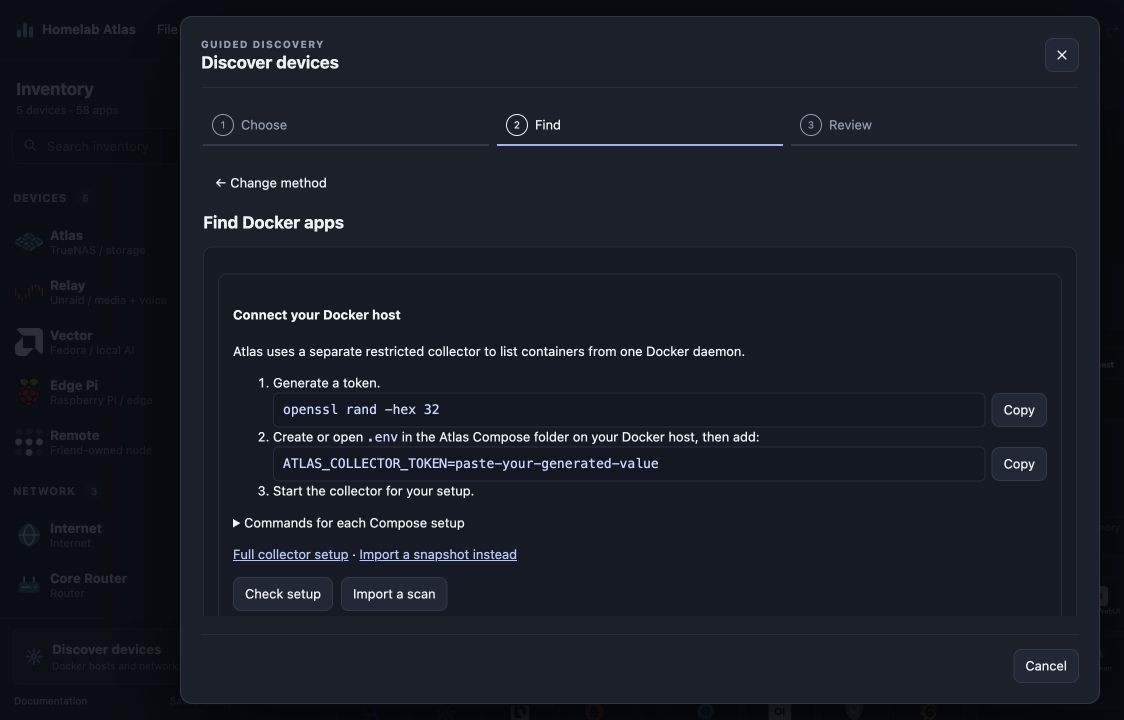
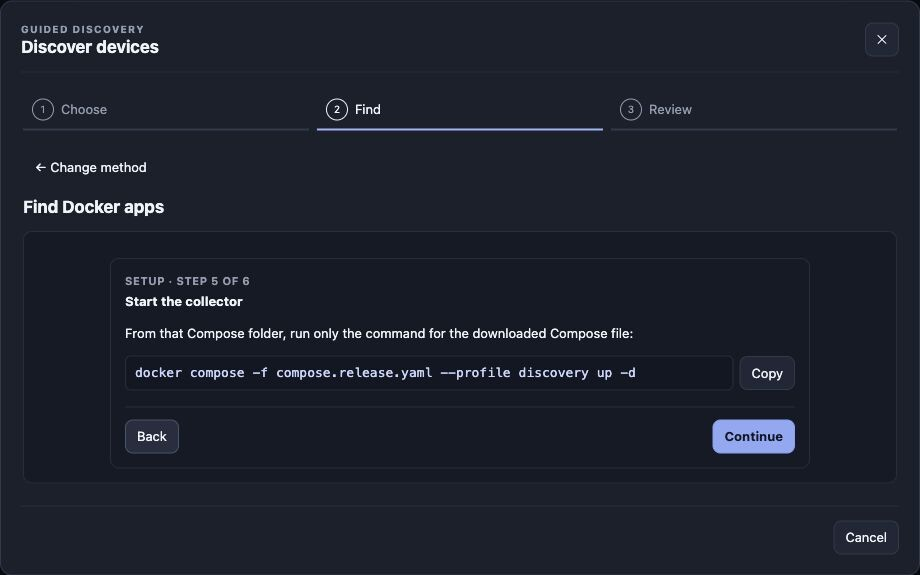
Document guided discovery and prepare v0.12.0

diff --git a/docs/.vitepress/theme/guide-figures.ts b/docs/.vitepress/theme/guide-figures.ts
@@ -58,71 +58,73 @@ export const guideFigures = {
   },
   'discovery-choose': {
     title: 'Choose a discovery method',
-    description: 'The first discovery step with readiness checks and Docker, network, and import methods highlighted.',
+    description: 'The discovery chooser with its three explicit methods and review boundary highlighted.',
     image: 'discovery-choose.jpg',
-    imageWidth: 1124,
-    imageHeight: 720,
-    crop: { x: 180, y: 132.375, width: 920, height: 455.2421875 },
+    imageWidth: 920,
+    imageHeight: 456,
+    crop: { x: 0, y: 0, width: 920, height: 456 },
     ...dialogStyle,
     marks: [
-      { rect: { x: 203, y: 222.125, width: 874, height: 40 }, circle: [156, 242], target: [203, 242], caption: 'Choose, Find, and Review keep setup and results separate. Opening discovery only checks readiness.' },
-      { rect: { x: 203, y: 351.6171875, width: 874, height: 144 }, circle: [1124, 423.5], target: [1077, 423.5], caption: 'Choose Docker apps, Network devices, or a saved scan to continue.' },
+      { rect: { x: 23, y: 89.75, width: 874, height: 40 }, circle: [-24, 110], target: [23, 110], caption: 'Choose, Find, and Review separate setup, scanning, and the required unchecked review.' },
+      { rect: { x: 23, y: 219.2421875, width: 284.6640625, height: 144 }, circle: [-24, 291], target: [23, 291], caption: 'Docker apps lists containers on a configured server or opens the guided setup.' },
+      { rect: { x: 317.6640625, y: 219.2421875, width: 284.6640625, height: 144 }, circle: [460, 480], target: [460, 363.2421875], caption: 'Network devices / Nmap finds reachable devices and open services.' },
+      { rect: { x: 612.328125, y: 219.2421875, width: 284.6640625, height: 144 }, circle: [944, 291], target: [897, 291], caption: 'Import saved scan reviews Docker JSON or Nmap XML without running a scan.' },
     ],
   },
   'network-scan': {
     title: 'Set up a live network scan',
-    description: 'The network Find step with target, optional advanced settings, and Find devices highlighted.',
+    description: 'The ready Nmap flow with device guidance, collapsed optional controls, and explicit scan action highlighted.',
     image: 'network-scan.jpg',
-    imageWidth: 1124,
-    imageHeight: 720,
-    crop: { x: 180, y: 52.0859375, width: 920, height: 615.8203125 },
+    imageWidth: 920,
+    imageHeight: 688,
+    crop: { x: 0, y: 0, width: 920, height: 688 },
     ...dialogStyle,
     marks: [
-      { rect: { x: 218, y: 328.4296875, width: 844, height: 31.9453125 }, circle: [156, 344.5], target: [218, 344.5], caption: 'Enter a permitted target such as the documentation-only address 192.0.2.10.' },
-      { rect: { x: 218, y: 434.0625, width: 844, height: 40.84375 }, circle: [1124, 454.5], target: [1062, 454.5], caption: 'Open Advanced settings only when you need different ports, service identification, or a network name.' },
-      { rect: { x: 218, y: 486.90625, width: 104.78125, height: 34 }, circle: [156, 504], target: [218, 504], caption: 'Find devices starts the bounded scan. No scan was run for this documentation capture.' },
+      { rect: { x: 38, y: 245.3984375, width: 844, height: 110.578125 }, circle: [-24, 301], target: [38, 301], caption: 'Enter one device IP from your router. The note confirms the scan runs from the Atlas server, not the browser.' },
+      { rect: { x: 38, y: 367.9765625, width: 844, height: 40.84375 }, circle: [944, 388], target: [882, 388], caption: 'Open the CIDR or advanced controls only when needed; both stay collapsed by default.' },
+      { rect: { x: 38, y: 506.5078125, width: 104.78125, height: 34 }, circle: [-24, 523.5], target: [38, 523.5], caption: 'Find devices explicitly starts the bounded scan and stays disabled until a target is entered.' },
     ],
   },
   'discovery-review': {
     title: 'Review network findings',
-    description: 'A multi-device network review with navigation, destination, and Add to diagram boundary highlighted.',
+    description: 'A multi-device network review with navigation, destination card, and Add selected boundary highlighted.',
     image: 'discovery-review.jpg',
-    imageWidth: 1124,
-    imageHeight: 720,
-    crop: { x: 180, y: 16, width: 920, height: 688 },
+    imageWidth: 920,
+    imageHeight: 688,
+    crop: { x: 0, y: 0, width: 920, height: 688 },
     ...dialogStyle,
     marks: [
-      { rect: { x: 203, y: 277.2421875, width: 874, height: 72.890625 }, circle: [156, 313.5], target: [203, 313.5], caption: 'Move between discovered devices. Pending choices stay with each device while this review remains open.' },
-      { rect: { x: 215, y: 459.4375, width: 420, height: 31.4765625 }, circle: [1124, 475], target: [635, 475], caption: 'Review the destination. It is never an automatic merge.' },
-      { rect: { x: 201, y: 591.15625, width: 878, height: 91.84375 }, circle: [1124, 637], target: [1079, 637], caption: 'All findings are unchecked, so Add to diagram is disabled. Scroll down to choose services first.', accent: true },
+      { rect: { x: 23, y: 261.2421875, width: 874, height: 72.890625 }, circle: [-24, 298], target: [23, 298], caption: 'Move between discovered devices. Pending choices stay with each device while this review remains open.' },
+      { rect: { x: 23, y: 433.3203125, width: 874, height: 129.734375 }, circle: [944, 498], target: [897, 498], caption: 'Choose the destination diagram card; suggestions never merge a result automatically.' },
+      { rect: { x: 717.546875, y: 633, width: 181.453125, height: 34 }, circle: [944, 650], target: [899, 650], caption: 'Scroll to the findings and select rows first. Add selected remains disabled while nothing is checked.', accent: true },
     ],
   },
   'docker-review': {
     title: 'Review Docker findings',
-    description: 'A Docker review with destination, a manually selected finding, and the Add to diagram boundary highlighted.',
+    description: 'A Docker review with destination, an unchecked finding, and the Add selected boundary highlighted.',
     image: 'docker-review.jpg',
-    imageWidth: 1124,
-    imageHeight: 720,
-    crop: { x: 180, y: 16, width: 920, height: 688 },
+    imageWidth: 920,
+    imageHeight: 688,
+    crop: { x: 0, y: 0, width: 920, height: 688 },
     ...dialogStyle,
     marks: [
-      { rect: { x: 215, y: 157.6328125, width: 420, height: 31 }, circle: [156, 173], target: [215, 173], caption: 'Relay is the reviewed destination. You still control where findings go.' },
-      { rect: { x: 203, y: 316.3671875, width: 874, height: 104.78125 }, circle: [1124, 369], target: [1077, 369], caption: 'Homepage is manually selected here. Findings start unchecked, and more rows require scrolling.' },
-      { rect: { x: 201, y: 572.3125, width: 878, height: 110.6875 }, circle: [1124, 627.5], target: [1079, 627.5], caption: 'Confirm the summary, then Add to diagram. Existing placement and one-step Undo are preserved.', accent: true },
+      { rect: { x: 23, y: 143.984375, width: 874, height: 128.7890625 }, circle: [-24, 208.5], target: [23, 208.5], caption: 'Choose the destination diagram card and service group before selecting findings.' },
+      { rect: { x: 23, y: 404.90625, width: 874, height: 104.78125 }, circle: [944, 457.5], target: [897, 457.5], caption: 'Every Docker finding starts unchecked. Select only the apps you want to add or link.' },
+      { rect: { x: 717.546875, y: 633, width: 181.453125, height: 34 }, circle: [944, 650], target: [899, 650], caption: 'Add selected is one undoable change. Existing cards stay put, and overlap protection still applies.', accent: true },
     ],
   },
   'docker-setup': {
-    title: 'Connect a Docker host',
-    description: 'The Docker setup panel with token checklist, command disclosure, and readiness retry highlighted.',
+    title: 'Start the Docker collector',
+    description: 'Step 5 of the released-Compose setup with one matching command and wizard navigation highlighted.',
     image: 'docker-setup.jpg',
-    imageWidth: 1124,
-    imageHeight: 720,
-    crop: { x: 180, y: 16, width: 920, height: 688 },
+    imageWidth: 920,
+    imageHeight: 575,
+    crop: { x: 0, y: 0, width: 920, height: 575 },
     ...dialogStyle,
     marks: [
-      { rect: { x: 233, y: 373.6640625, width: 814, height: 126.71875 }, circle: [156, 437], target: [233, 437], caption: 'Generate the token yourself, save it in .env, then start the collector for your setup.' },
-      { rect: { x: 233, y: 513.3828125, width: 814, height: 18.84375 }, circle: [1124, 523], target: [1047, 523], caption: 'Open Commands for each Compose setup to see the source and released commands. Atlas never runs them.' },
-      { rect: { x: 233, y: 577.0703125, width: 100.0078125, height: 34 }, circle: [156, 594], target: [233, 594], caption: 'Check setup repeats the readiness check. It does not create tokens or enable the collector.' },
+      { rect: { x: 125, y: 272.3984375, width: 670, height: 37.7890625 }, circle: [-24, 291], target: [125, 291], caption: 'The wizard shows one focused instruction at a time and identifies the current step.' },
+      { rect: { x: 125, y: 355.03125, width: 670, height: 34.84375 }, circle: [944, 372.5], target: [795, 372.5], caption: 'Only the released-Compose command is shown for this branch. Atlas never executes it.' },
+      { rect: { x: 125, y: 405.875, width: 670, height: 47 }, circle: [-24, 429.5], target: [125, 429.5], caption: 'Back keeps prior choices; Continue advances to the final setup check.' },
     ],
   },
   'private-export': {

diff --git a/tools/tests/discovery-setup.test.js b/tools/tests/discovery-setup.test.js
@@ -34,6 +34,6 @@ test('Docker setup opens only after a successful empty readiness response', () =
 test('setup commands keep the documented release and restricted snapshot forms', () => {
   assert.match(SETUP_COMMANDS.composeRelease, /compose\.release\.yaml --profile discovery/);
   assert.match(SETUP_COMMANDS.snapshot, /--network none/);
-  assert.match(SETUP_COMMANDS.snapshot, /homelab-atlas:0\.11\.1 collect/);
+  assert.match(SETUP_COMMANDS.snapshot, /homelab-atlas:0\.12\.0 collect/);
   assert.equal(SETUP_COMMANDS.nmapBuild, 'ATLAS_WITH_NMAP=true docker compose up -d --build');
 });

diff --git a/app/public/discovery-setup.js b/app/public/discovery-setup.js
@@ -14,7 +14,7 @@ export const SETUP_COMMANDS = Object.freeze({
   -e ATLAS_HOST_ID=nas \\
   -e 'ATLAS_HOST_NAME=NAS Docker' \\
   -v /var/run/docker.sock:/var/run/docker.sock:ro \\
-  ghcr.io/aiden0rchad/homelab-atlas:0.11.1 collect \\
+  ghcr.io/aiden0rchad/homelab-atlas:0.12.0 collect \\
   > ../nas-docker-snapshot.json`,
 });
 

diff --git a/docs/editor.md b/docs/editor.md
@@ -26,15 +26,15 @@ The duplicate button copies a device and gives the copy new internal IDs without
 
 ## Discover devices
 
-Choose **Discover devices** at the bottom of the inventory, then choose Docker apps, Network devices, or a saved scan. Opening discovery checks readiness but never scans. The Find step runs only after **Find Docker apps** or **Find devices**; importing a snapshot or XML runs no scanner or network probe.
+Choose **Discover devices** at the bottom of the inventory, then choose Docker apps, Network devices / Nmap, or Import saved scan. Opening discovery checks readiness but never scans. Configured Docker servers go straight to the server picker; the one-screen-at-a-time setup appears only when configuration is missing. The Find step runs only after **Find Docker apps** or **Find devices**; importing a snapshot or XML runs no scanner or network probe.
 
 For live Nmap, enter allowed IPv4 targets and choose **Find devices**. **Advanced settings** contains the optional network name, port preset, custom TCP ports, and service identification. Select a device in multi-device results. The scope, host addresses, names, vendor, scan time, and ports not imported appear in Review. Reuse the same network name for later scans.
 
-Choose a destination device and service group. Every finding starts unchecked. Docker and Nmap endpoint rows can add a service or link to one already on the destination device. Nmap host rows add a host card or link the host identity to an existing card. Ping-only hosts therefore work without a fake service. Suggestions never check a row automatically.
+Choose a **Destination diagram card** and service group. Every finding starts unchecked. Docker and Nmap endpoint rows can add a service or link to one already on the destination device. Nmap host rows add a host card or link the host identity to an existing card. Ping-only hosts therefore work without a fake service. Suggestions never check a row automatically.
 
 Linking keeps existing metadata and layout unchanged. Docker additions use the discovered name, logo match, and replica count. Nmap endpoint names include the detected product or service plus protocol and port. New Nmap cards persist bounded canonical IP addresses as hardware facts. Missing findings never delete existing services.
 
-The review summary shows additions, links, new cards/groups, and card-height changes. **Add to diagram** is disabled for an empty or invalid review. Adding the current device creates one undo step, and Nmap results stay open so another device can be reviewed. Canceling, pressing `Escape`, finding, or importing without choosing **Add to diagram** does not change the project. See [Discovery](/discovery) for setup, limits, and security boundaries.
+The review summary shows additions, links, new cards/groups, and card-height changes. **Add selected to diagram** is disabled for an empty or invalid review. Adding the current device creates one undo step, and Nmap results stay open so another device can be reviewed. Canceling, pressing `Escape`, finding, or importing without choosing **Add selected to diagram** does not change the project. See [Discovery](/discovery) for setup, limits, and security boundaries.
 
 ## Add service tiles
 

diff --git a/docs/getting-started.md b/docs/getting-started.md
@@ -16,7 +16,7 @@ Manual diagrams need only Atlas and a browser. Discovery is optional and has sep
 Download the release Compose file, then start the container:
 
 ```sh
-curl -fsSLO https://github.com/aiden0rchad/homelab-atlas/releases/download/v0.11.1/compose.release.yaml
+curl -fsSLO https://github.com/aiden0rchad/homelab-atlas/releases/download/v0.12.0/compose.release.yaml
 docker compose -f compose.release.yaml up -d
 ```
 
@@ -26,14 +26,14 @@ Open `http://localhost:8080`. Verify the server if needed:
 curl http://localhost:8080/healthz
 ```
 
-A healthy response is `ok`. By default, the Compose file pulls `ghcr.io/aiden0rchad/homelab-atlas:0.11.1`. It only listens on the machine running Docker and keeps the container read-only, drops its capabilities, and enables the no-new-privileges setting. Docker discovery stays off unless you enable its profile.
+A healthy response is `ok`. By default, the Compose file pulls `ghcr.io/aiden0rchad/homelab-atlas:0.12.0`. It only listens on the machine running Docker and keeps the container read-only, drops its capabilities, and enables the no-new-privileges setting. Docker discovery stays off unless you enable its profile.
 
 ## Pin and update versions
 
 To pin a version, create `.env` next to `compose.release.yaml`:
 
 ```dotenv
-ATLAS_VERSION=0.11.1
+ATLAS_VERSION=0.12.0
 ```
 
 When you want to update, change `ATLAS_VERSION` in `.env` to a version that has been published. Then pull it and recreate the container without changing the hostname or port:
@@ -43,12 +43,12 @@ docker compose -f compose.release.yaml pull
 docker compose -f compose.release.yaml up -d
 ```
 
-Save an editable JSON project before you update or downgrade. Your project is stored by the browser, not in a container volume. Atlas 0.11 uses schema version 6 and imports schema versions 1 through 5. Existing inventory, discovery bindings, uploaded logos, connections, and manual layouts are preserved. Atlas does not migrate projects backward.
+Save an editable JSON project before you update or downgrade. Your project is stored by the browser, not in a container volume. Atlas 0.12 uses schema version 6 and imports schema versions 1 through 5. Existing inventory, discovery bindings, uploaded logos, connections, and manual layouts are preserved. Atlas does not migrate projects backward.
 
 The image tags work like this:
 
-- `0.11.1` and `v0.11.1` identify this release.
-- `0.11` moves to the newest compatible 0.11 patch.
+- `0.12.0` and `v0.12.0` identify this release.
+- `0.12` moves to the newest compatible 0.12 patch.
 - `latest` moves to the newest stable release.
 - A published image digest never changes; the [release guide](/releases/) explains how to pin one.
 
@@ -92,8 +92,8 @@ go run ./app
 For the portable release, extract the ZIP and move into its top-level directory first:
 
 ```sh
-unzip homelab-atlas-0.11.1.zip
-cd homelab-atlas-0.11.1
+unzip homelab-atlas-0.12.0.zip
+cd homelab-atlas-0.12.0
 go run ./app
 ```
 

diff --git a/README.md b/README.md
@@ -25,11 +25,11 @@ Atlas lays out your diagram automatically, with optional manual positioning and 
 You'll need Docker with Compose v2:
 
 ```sh
-curl -fsSLO https://github.com/aiden0rchad/homelab-atlas/releases/download/v0.11.1/compose.release.yaml
+curl -fsSLO https://github.com/aiden0rchad/homelab-atlas/releases/download/v0.12.0/compose.release.yaml
 docker compose -f compose.release.yaml up -d
 ```
 
-Open `http://localhost:8080`. This uses the `0.11.1` image and only listens on the machine running Docker. Images are available for Linux AMD64 and ARM64.
+Open `http://localhost:8080`. This uses the `0.12.0` image and only listens on the machine running Docker. Images are available for Linux AMD64 and ARM64.
 
 For access from another computer, updates, or running without Docker, see the [setup guide](https://aiden0rchad.github.io/homelab-atlas/getting-started). The [release page](https://github.com/aiden0rchad/homelab-atlas/releases/latest) has the portable ZIP, Compose file, and checksums.
 
@@ -39,7 +39,7 @@ Open **File** and start with **Load example** to see how it works, or **Start em
 
 You can upload PNG, JPG, WebP, or SVG logos up to 2 MB, preview their contrast background, and reuse them across devices, services, and network nodes. SVG uploads are converted to PNG, and stored images are at most 512px. They stay in project JSON and work offline and in exports. The bundled catalog still includes 27 provider marks. Atlas starts with an automatic layout; **Arrange** in the canvas header lets you move or resize device cards. **Export** previews and downloads a PNG or SVG, with network details hidden by default and optional literal terms for custom names. Use **File → Save project** to download a JSON copy you can edit later.
 
-**Discover devices** guides you through **Choose → Find → Review** for Docker apps, network devices, or a saved Docker JSON/Nmap XML scan. Nothing scans automatically, every result starts unchecked, and **Add to diagram** is one undoable change that preserves existing card positions. See the [discovery guide](https://aiden0rchad.github.io/homelab-atlas/discovery).
+**Discover devices** guides you through **Choose → Find → Review** for Docker apps, network devices, or a saved Docker JSON/Nmap XML scan. Nothing scans automatically, every result starts unchecked, and **Add selected to diagram** is one undoable change that preserves existing card positions. See the [discovery guide](https://aiden0rchad.github.io/homelab-atlas/discovery).
 
 The [editor guide](https://aiden0rchad.github.io/homelab-atlas/editor) covers the controls, and the [networking guide](https://aiden0rchad.github.io/homelab-atlas/networking) explains connections and VLANs.
 

diff --git a/docs/releases/index.md b/docs/releases/index.md
@@ -1,13 +1,13 @@
 # Releases and packages
 
-**v0.11.1** is the latest release. You can read the [release notes](/releases/v0.11.1) or get the files from the [GitHub release](https://github.com/aiden0rchad/homelab-atlas/releases/tag/v0.11.1). Earlier notes remain available. A release is published only after its tests, docs, image, and downloads pass the release workflow.
+**v0.12.0** is the latest release. You can read the [release notes](/releases/v0.12.0) or get the files from the [GitHub release](https://github.com/aiden0rchad/homelab-atlas/releases/tag/v0.12.0). Earlier notes remain available. A release is published only after its tests, docs, image, and downloads pass the release workflow.
 
 ## Release assets
 
 | Asset | Platforms | Purpose |
 |---|---|---|
-| `ghcr.io/aiden0rchad/homelab-atlas:0.11.1` | Linux AMD64, ARM64 | Published scanner-free editor and optional collector image |
-| `homelab-atlas-0.11.1.zip` | Go 1.26+ and a current browser | App source and opt-in local Nmap build recipe |
+| `ghcr.io/aiden0rchad/homelab-atlas:0.12.0` | Linux AMD64, ARM64 | Published scanner-free editor and optional collector image |
+| `homelab-atlas-0.12.0.zip` | Go 1.26+ and a current browser | App source and opt-in local Nmap build recipe |
 | `compose.release.yaml` | Docker Compose v2 | Runs the released image with the standard safety settings |
 | `SHA256SUMS` | Linux/macOS | Integrity checks for the ZIP and Compose file |
 
@@ -35,12 +35,12 @@ Both covered files must report `OK`.
 
 | Tag | Behavior |
 |---|---|
-| `0.11.1` | Exact stable release |
-| `v0.11.1` | Exact stable release, matching the Git tag |
-| `0.11` | Newest stable patch in the 0.11 line |
+| `0.12.0` | Exact stable release |
+| `v0.12.0` | Exact stable release, matching the Git tag |
+| `0.12` | Newest stable patch in the 0.12 line |
 | `latest` | Newest stable release |
 
-The exact version tags keep pointing to the same release. The `0.11` and `latest` tags move when a newer matching release is published. If you need an image reference that cannot move, get the verified manifest digest from the registry or successful release workflow. Replace the colon and tag after the image name with `@` followed by that `sha256:` digest.
+The exact version tags keep pointing to the same release. The `0.12` and `latest` tags move when a newer matching release is published. If you need an image reference that cannot move, get the verified manifest digest from the registry or successful release workflow. Replace the colon and tag after the image name with `@` followed by that `sha256:` digest.
 
 ## Maintainer checklist
 

diff --git a/docs/releases/v0.12.0.md b/docs/releases/v0.12.0.md
@@ -1,0 +1,20 @@
+# Homelab Atlas v0.12.0
+
+Released 2026-10-28.
+
+Discovery setup now shows one focused instruction at a time. Docker guidance separates local Compose, native or remote collectors, and a one-time snapshot path. Nmap guidance separates source-built Compose from native installs. Already configured Docker servers keep the direct server picker.
+
+Scan actions stay disabled until required input is present. Readiness, collector, and access-token failures keep their useful context and offer specific retry guidance without starting a scan.
+
+Every finding still starts unchecked. **Add selected to diagram** remains an explicit, undoable action; existing cards stay in place, and additions that would overlap another card are blocked.
+
+Verification includes the automated app, discovery, packaging, and documentation checks, plus browser checks of configured and fresh setup paths, imports, review, cancellation, Undo, and mobile layout.
+
+## Downloads
+
+- Container image: `ghcr.io/aiden0rchad/homelab-atlas:0.12.0`
+- Source archive: `homelab-atlas-0.12.0.zip`
+- Compose file: `compose.release.yaml`
+- Checksums: `SHA256SUMS`
+
+Verify the ZIP and Compose file with the commands on the [releases page](https://aiden0rchad.github.io/homelab-atlas/releases/).

diff --git a/docs/changelog.md b/docs/changelog.md
@@ -2,6 +2,14 @@
 
 This file lists the notable changes in each Homelab Atlas release.
 
+## [0.12.0] - 2026-10-28
+
+### Changed
+
+- Discovery setup now presents one focused step at a time for local or remote Docker and Docker Compose or native Nmap installs.
+- Configured Docker servers keep the fast path, while missing inputs disable scan actions and readiness, authentication, and collector failures provide specific retry guidance.
+- Unchecked review, layout overlap protection, and one-step Undo behavior remain unchanged.
+
 ## [0.11.1] - 2026-10-28
 
 ### Fixed
@@ -148,3 +156,4 @@ This file lists the notable changes in each Homelab Atlas release.
 [0.10.0]: https://github.com/aiden0rchad/homelab-atlas/releases/tag/v0.10.0
 [0.11.0]: https://github.com/aiden0rchad/homelab-atlas/releases/tag/v0.11.0
 [0.11.1]: https://github.com/aiden0rchad/homelab-atlas/releases/tag/v0.11.1
+[0.12.0]: https://github.com/aiden0rchad/homelab-atlas/releases/tag/v0.12.0

diff --git a/docs/development.md b/docs/development.md
@@ -36,7 +36,7 @@ npm run check:icons
 docker compose config
 docker compose --project-directory . -f deploy/compose.release.yaml config
 docker compose --project-directory . -f compose.yaml -f deploy/compose.nmap.yaml config
-python3 tools/scripts/release.py v0.11.1 --output dist
+python3 tools/scripts/release.py v0.12.0 --output dist
 ```
 
 `npm test` checks logo data, runs the Node tests, runs `go test ./...`, and runs the Python release tests. Release files go into the ignored `dist/` directory, and the release workflow checks their checksums too.

diff --git a/docs/discovery.md b/docs/discovery.md
@@ -148,7 +148,7 @@ docker run --rm \
   -e ATLAS_HOST_ID=nas \
   -e 'ATLAS_HOST_NAME=NAS Docker' \
   -v /var/run/docker.sock:/var/run/docker.sock:ro \
-  ghcr.io/aiden0rchad/homelab-atlas:0.11.1 collect \
+  ghcr.io/aiden0rchad/homelab-atlas:0.12.0 collect \
   > ../nas-docker-snapshot.json
 ```
 
